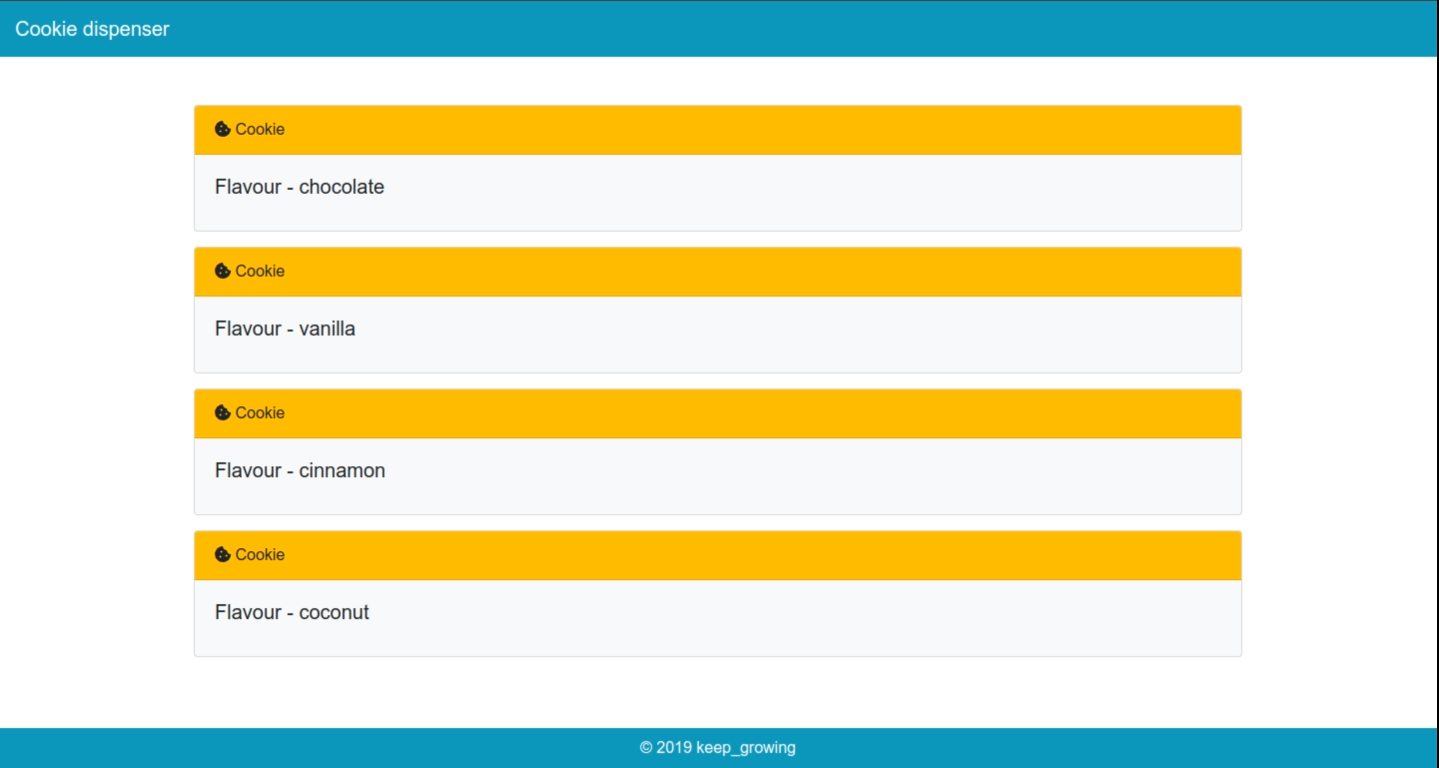
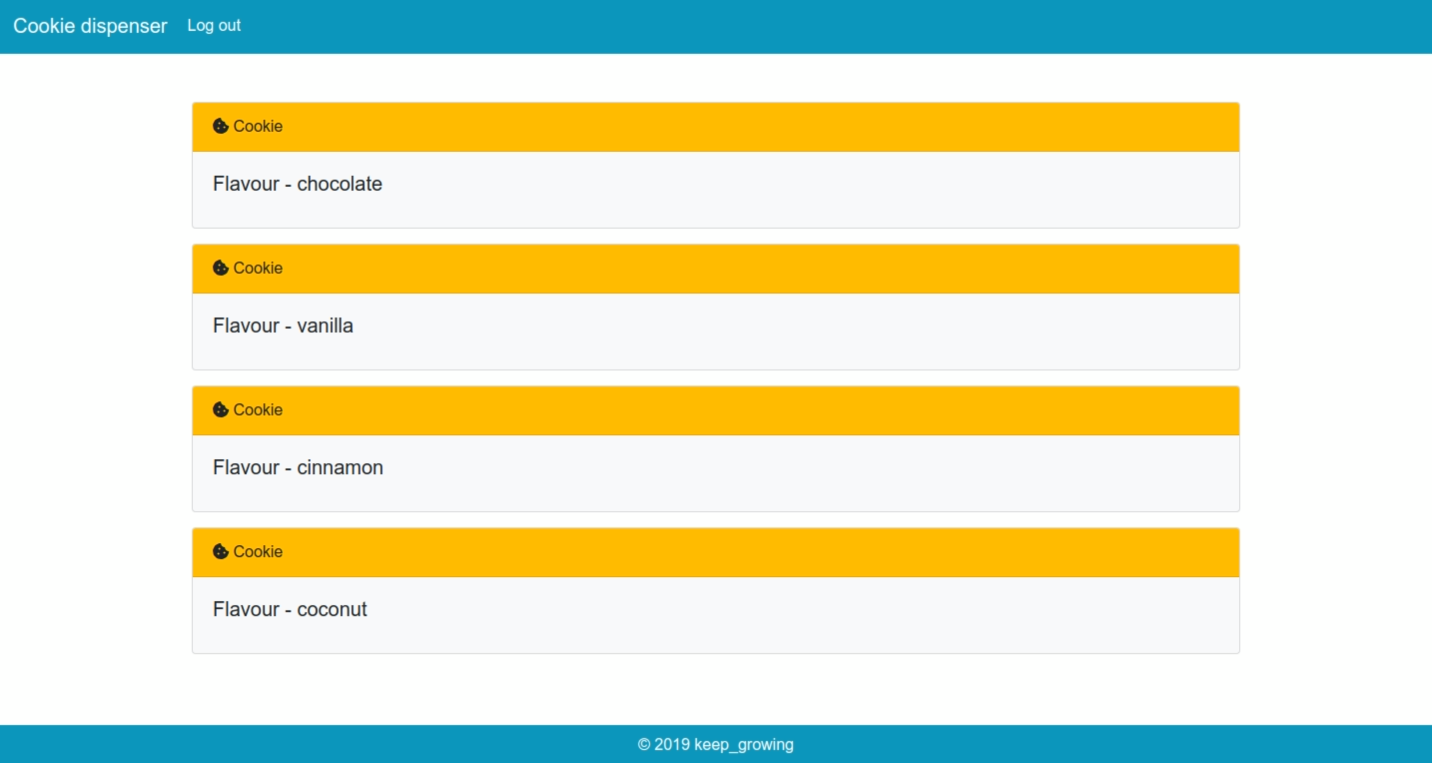
README updated.

diff --git a/README.md b/README.md
@@ -4,7 +4,7 @@
 
 This project is a multi-module application, using Spring Boot for the backend and Angular for the frontend. The project can be built into a single jar file using Maven. You can also run the modules separately during development.
 
-The backend is secured with JSON Web Token. The frontend is ready to be secured.
+The backend and frontend is secured with JSON Web Token.
 
 ## Getting Started
 
@@ -20,19 +20,13 @@ $ mvn clean install
 
 ### Sign up request
 
+You need to create a test user:
+
 ![sign up request screenshot](readme-images/postman-sign-up-request.png)
-
-### Login request
-
-![login request screenshot](readme-images/postman-login-request.png)
-
-### Requesting secured data
-
-![secured API call screenshot](readme-images/postman-successful-call-to-the-secured-endpoint.png)
 
 ## Overview and technical features
 
-The project currently serves a dummy login page and hard-coded pastry data returned from the API.
+The project currently serves a login page and hard-coded pastry data returned from the API.
 It allows registering new users, handles login requests and serves data from the API to authenticated and authorized users.
 
 ## Running tests
@@ -48,7 +42,7 @@ $ ng test
 
 ## Running in production
 
-Set up the `apiUrl` const in `frontend/src/main/angular/src/environments/environment.prod.ts`.
+Set the `apiUrl` const in `frontend/src/main/angular/src/environments/environment.prod.ts` to the path for the production environment.
 
 ## Built With
 
@@ -66,7 +60,7 @@ Set up the `apiUrl` const in `frontend/src/main/angular/src/environments/environ
 
 ## To do
 
-* Authorisation and authentication - securing frontend layer (handling logging in and logging out).
+* Implement AuthGuard
 
 ## License
 
